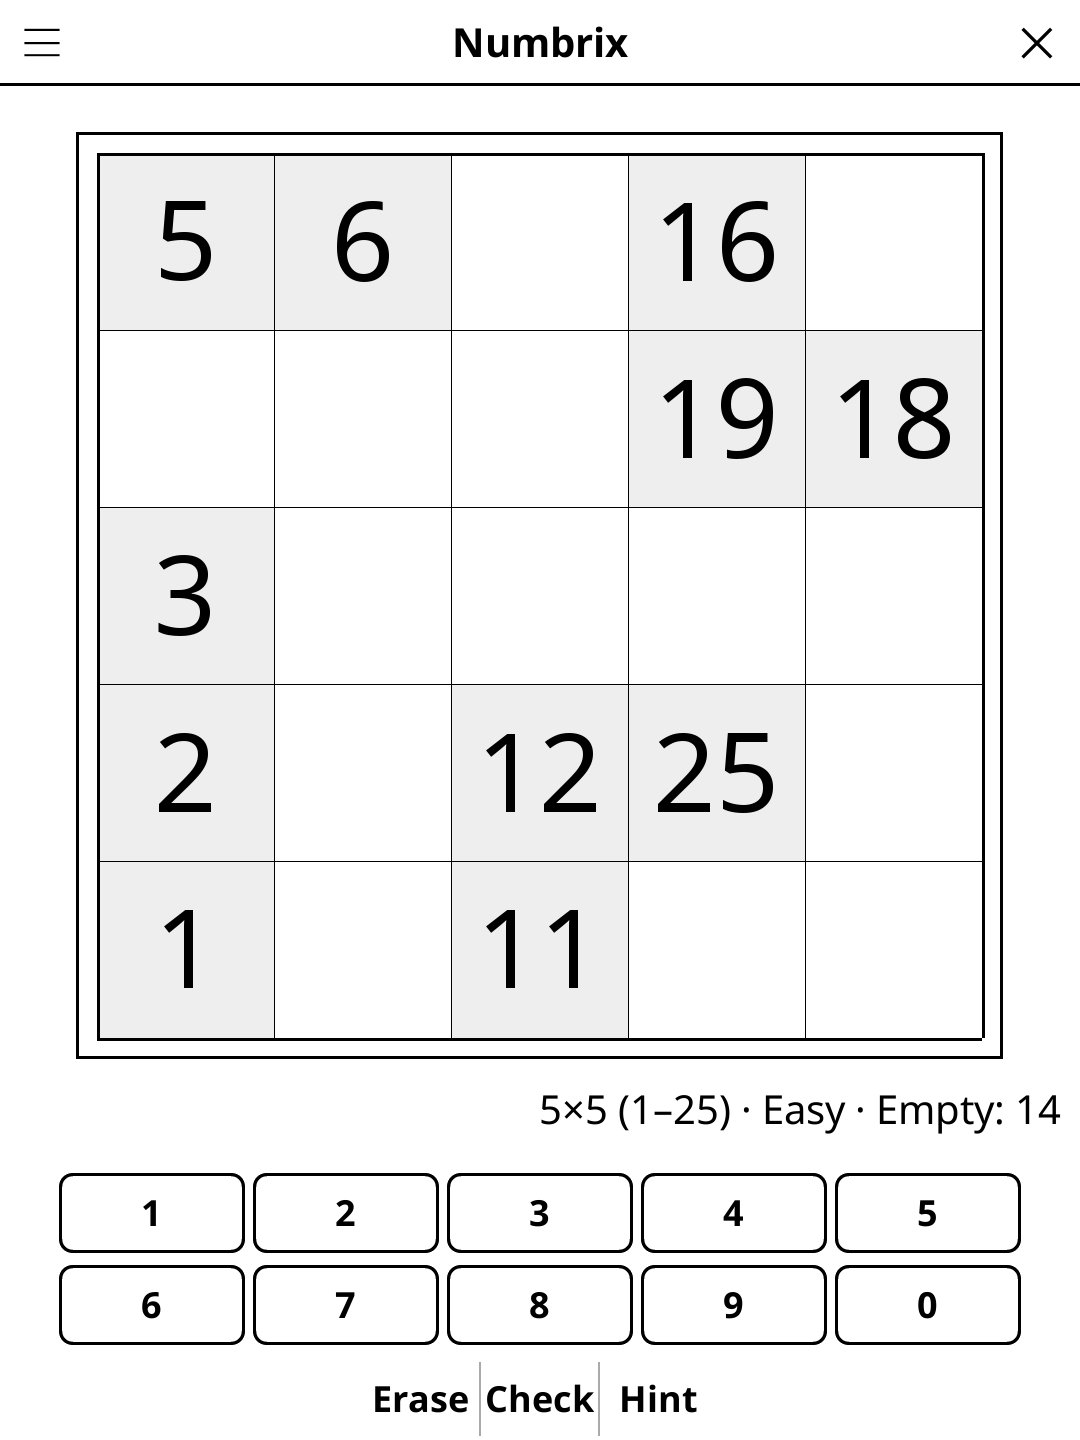
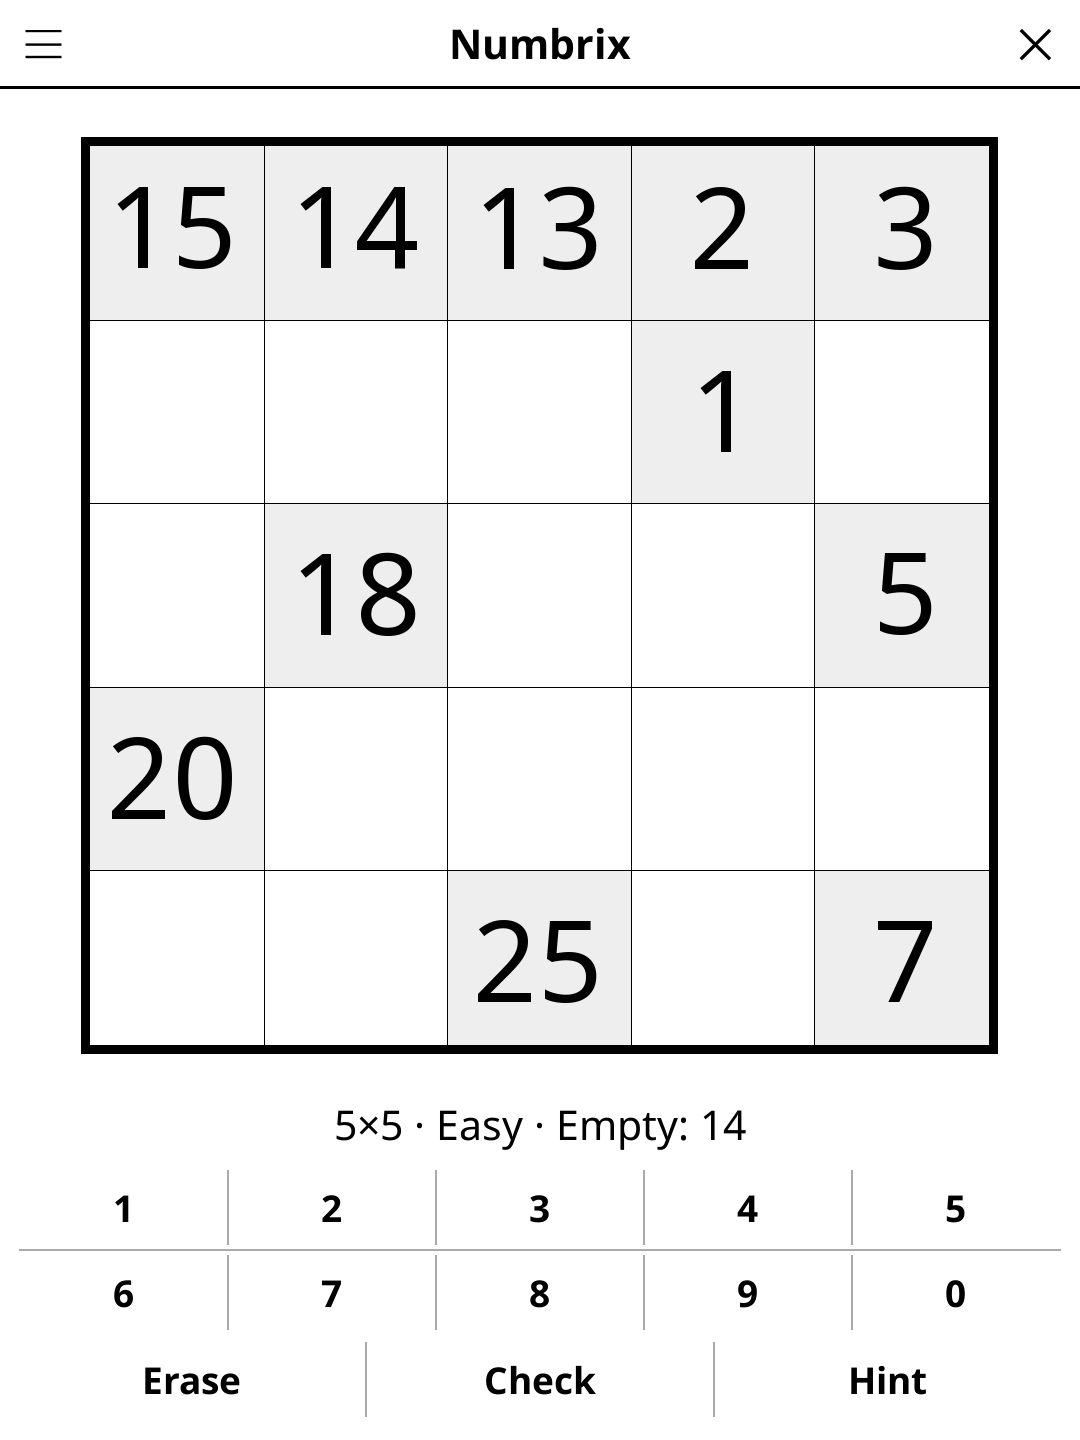
release: 1.3.0 -- redesigned screen, harmonised menu, New game at round end
Screen redesign (full-width action bar, unified pad, status line, larger
board), harmonised title-bar menu, and a "New game" button once the round
is over. See CHANGELOG.md.

diff --git a/CHANGELOG.md b/CHANGELOG.md
@@ -2,6 +2,28 @@
 
 All notable changes to this project will be documented in this file.
 
+## [1.3.0] - 2026-10-30
+
+### Added
+- "New game" once the puzzle is solved: the action bar shows it in place of
+  Erase, Check and Hint, so the next puzzle no longer needs the menu.
+- The rules now explain how to enter a number: two digits on the keypad, 0
+  then 7 for 7.
+
+### Changed
+- Redesigned play screen, in line with the other games: a full-width action
+  bar, the unified number pad (two even rows of five), a larger board that
+  fills the available room, and one thick frame around it. The status line
+  reads "size · difficulty · Empty: n" and wraps in landscape instead of
+  being cut off.
+- Title-bar menu shows "Difficulty: …" in full (was "Diff: …").
+- New README screenshot.
+
+### Fixed
+- Using Hint wiped the saved game: the board was saved as nothing. And when
+  a hint fills the last cell, the status now shows the win message.
+- The board's closing grid line was drawn just past its edge.
+
 ## [1.2.2] - 2026-10-07
 
 ### Fixed
